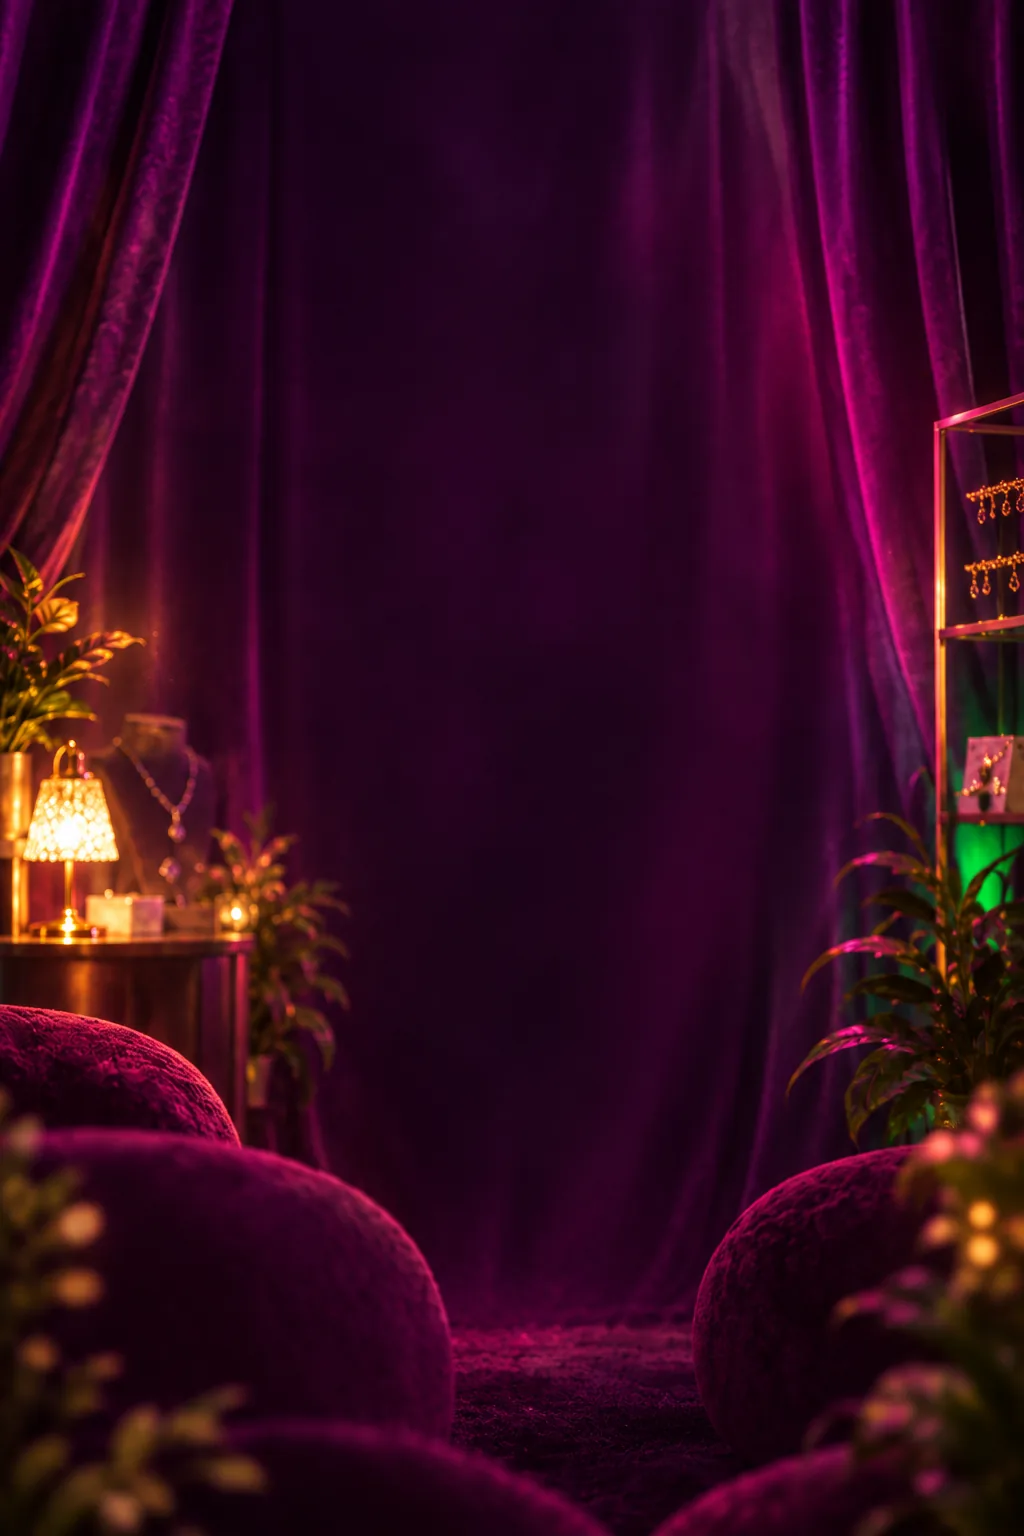
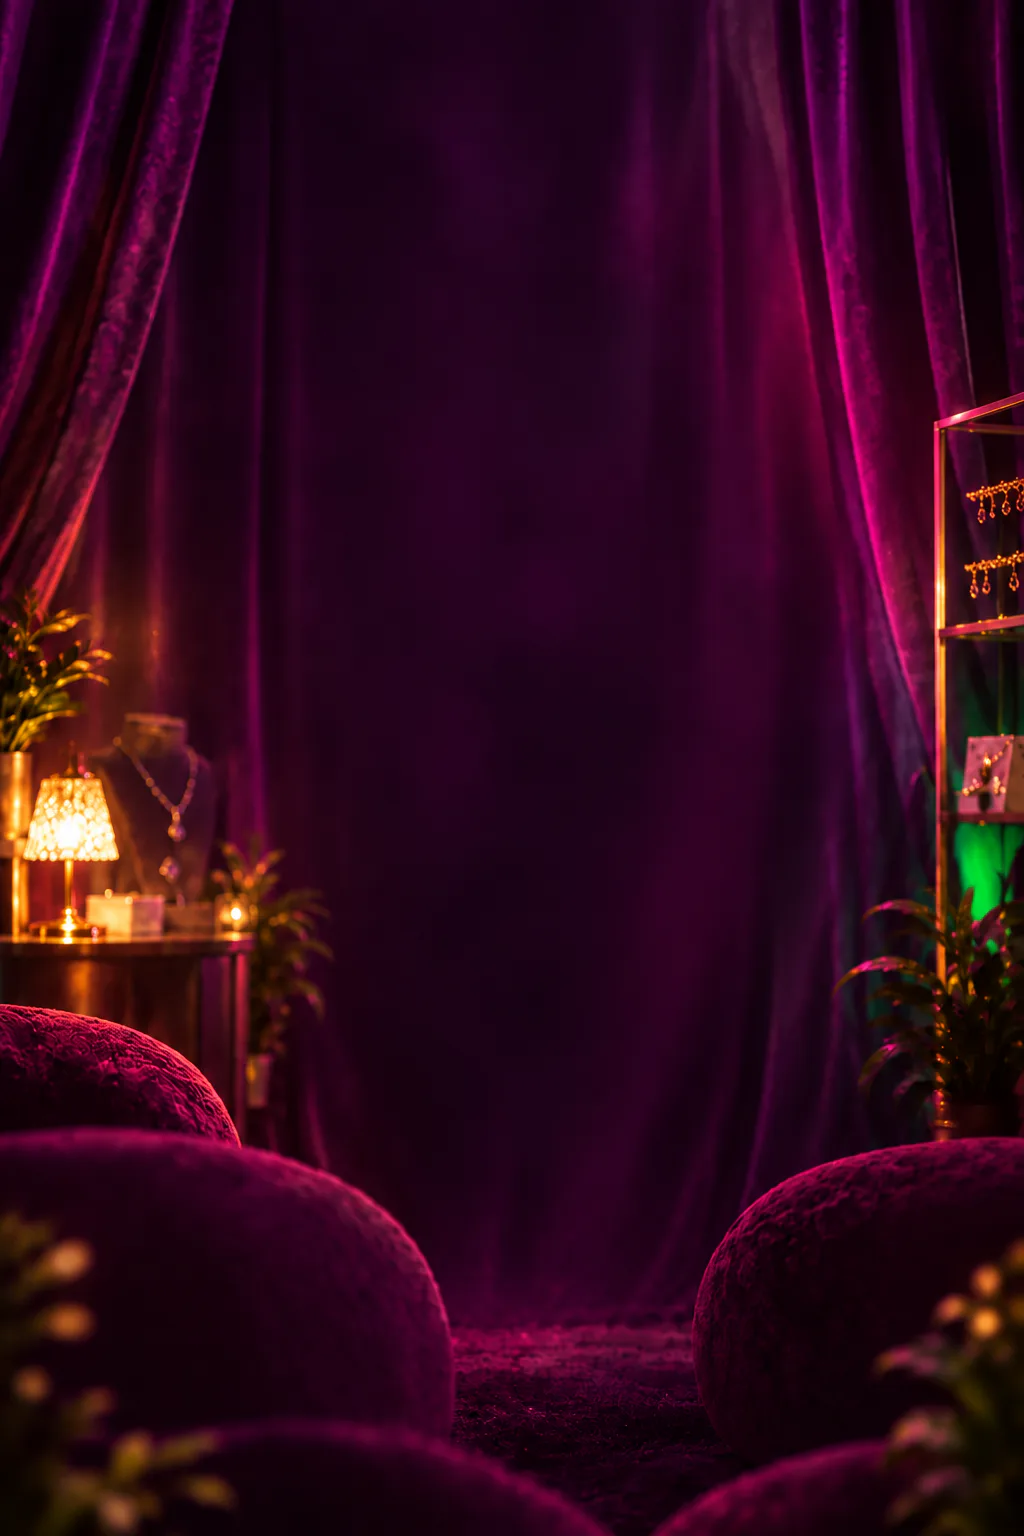
Refine Neon Butterfly shape and motion
Reduce hero foliage, rebuild the reference-inspired butterfly outline, remove the white detail mark, and animate all three main wing pairs independently.

diff --git a/public/amethyst/neon-butterfly.css b/public/amethyst/neon-butterfly.css
@@ -206,20 +206,22 @@ body.bg-neon-butterfly .hp-footer {
 }
 body.bg-neon-butterfly .hp-footer a:hover { color: #ff75df; }
 
-.nb-decoration { position: absolute; inset: 0; z-index: 2; pointer-events: none; overflow: hidden; }
-.nb-scene { position: absolute; inset: 0; pointer-events: none; user-select: none; overflow: hidden; }
+.nb-decoration { position: static; pointer-events: none; }
+.nb-scene { position: absolute; inset: 0; z-index: 2; pointer-events: none; user-select: none; overflow: hidden; }
 .nb-ambient { position: absolute; inset: -18%; background: radial-gradient(circle at 70% 35%, rgba(255, 42, 205, 0.17), transparent 31%), radial-gradient(circle at 24% 62%, rgba(255, 194, 74, 0.1), transparent 23%), radial-gradient(circle at 93% 70%, rgba(97, 242, 155, 0.07), transparent 20%); animation: nb-ambient-breathe 22s ease-in-out infinite; }
 .nb-lamp-shimmer { position: absolute; left: -7%; bottom: -8%; width: 34%; aspect-ratio: 1; border-radius: 50%; background: radial-gradient(circle, rgba(255, 214, 124, 0.28), rgba(255, 153, 46, 0.08) 37%, transparent 69%); mix-blend-mode: screen; opacity: .42; animation: nb-lamp-shimmer 19s ease-in-out infinite; }
-.nb-butterfly { position: absolute; display: block; color: #ff2acd; filter: drop-shadow(0 0 7px currentColor) drop-shadow(0 0 18px currentColor); transform-origin: 50% 50%; will-change: transform, opacity, filter; }
+.nb-butterfly { --nb-flap-duration: 21s; --nb-flap-delay: 0s; position: absolute; display: block; color: #ff2acd; filter: drop-shadow(0 0 7px currentColor) drop-shadow(0 0 18px currentColor); transform-origin: 50% 50%; will-change: transform, opacity, filter; }
 .nb-butterfly svg { display: block; width: 100%; height: auto; overflow: visible; }
-.nb-butterfly-outline { fill: rgba(255,255,255,.025); stroke: currentColor; stroke-width: 5.2; stroke-linejoin: round; vector-effect: non-scaling-stroke; }
-.nb-butterfly-detail { fill: none; stroke: rgba(255,255,255,.82); stroke-width: 1.35; stroke-linecap: round; vector-effect: non-scaling-stroke; }
+.nb-butterfly-outline { fill: none; stroke: currentColor; stroke-width: 5.2; stroke-linecap: round; stroke-linejoin: round; vector-effect: non-scaling-stroke; }
+.nb-wing { transform-box: view-box; transform-origin: 60px 45px; will-change: transform; }
+.nb-wing--left { animation: nb-wing-flap-left var(--nb-flap-duration) var(--nb-flap-delay) ease-in-out infinite; }
+.nb-wing--right { animation: nb-wing-flap-right var(--nb-flap-duration) calc(var(--nb-flap-delay) + .07s) ease-in-out infinite; }
 .nb-butterfly--pink { color: #ff35d1; }
 .nb-butterfly--gold { color: #ffc24a; }
 .nb-butterfly--violet { color: #b56bff; }
-.nb-butterfly--upper-right { width: clamp(138px, 16vw, 225px); right: clamp(28px, 7vw, 120px); top: clamp(36px, 8%, 82px); animation: nb-sign-flutter 21s ease-in-out infinite, nb-neon-breathe 8s ease-in-out infinite; }
-.nb-butterfly--left { width: clamp(108px, 13vw, 182px); left: clamp(20px, 6vw, 104px); top: 32%; animation: nb-sign-flutter 27s -9s ease-in-out infinite, nb-neon-breathe 11s -3s ease-in-out infinite; }
-.nb-butterfly--lower-right { width: clamp(92px, 11vw, 160px); right: clamp(18px, 9vw, 145px); bottom: 13%; animation: nb-sign-flutter 24s -15s ease-in-out infinite, nb-neon-breathe 9s -5s ease-in-out infinite; }
+.nb-butterfly--upper-right { --nb-flap-duration: 19s; --nb-flap-delay: -4s; width: clamp(138px, 16vw, 225px); right: clamp(28px, 7vw, 120px); top: clamp(36px, 8%, 82px); animation: nb-sign-drift 21s ease-in-out infinite, nb-neon-breathe 8s ease-in-out infinite; }
+.nb-butterfly--left { --nb-flap-duration: 23s; --nb-flap-delay: -12s; width: clamp(108px, 13vw, 182px); left: clamp(20px, 6vw, 104px); top: 32%; animation: nb-sign-drift 27s -9s ease-in-out infinite, nb-neon-breathe 11s -3s ease-in-out infinite; }
+.nb-butterfly--lower-right { --nb-flap-duration: 27s; --nb-flap-delay: -19s; width: clamp(92px, 11vw, 160px); right: clamp(18px, 9vw, 145px); bottom: 13%; animation: nb-sign-drift 24s -15s ease-in-out infinite, nb-neon-breathe 9s -5s ease-in-out infinite; }
 .nb-butterfly--flyer { width: clamp(40px, 4.6vw, 66px); left: 8%; bottom: 9%; opacity: 0; animation: nb-butterfly-flight 29s -6s cubic-bezier(.42,0,.28,1) infinite; }
 .nb-decoration[data-choreography="2"] .nb-butterfly--flyer { animation-delay: -15s; animation-duration: 33s; }
 .nb-decoration[data-choreography="3"] .nb-butterfly--flyer { animation-delay: -24s; animation-duration: 36s; }
@@ -233,7 +235,9 @@ body.bg-neon-butterfly .hp-footer a:hover { color: #ff75df; }
 @keyframes nb-ambient-breathe { 0%,100% { opacity: .68; transform: scale(1); } 48% { opacity: .95; transform: scale(1.035); } 54% { opacity: .9; transform: scale(1.025); } }
 @keyframes nb-lamp-shimmer { 0%,57%,100% { opacity: .34; transform: scale(.96); } 63% { opacity: .7; transform: scale(1.035); } 70% { opacity: .42; transform: scale(1); } }
 @keyframes nb-neon-breathe { 0%,100% { opacity: .86; filter: drop-shadow(0 0 6px currentColor) drop-shadow(0 0 16px currentColor); } 50% { opacity: 1; filter: drop-shadow(0 0 9px currentColor) drop-shadow(0 0 25px currentColor); } }
-@keyframes nb-sign-flutter { 0%,38%,46%,72%,80%,100% { transform: rotate(0deg) scaleX(1) translateY(0); } 41% { transform: rotate(-1deg) scaleX(.91) translateY(-2px); } 43% { transform: rotate(1deg) scaleX(1.025) translateY(0); } 75% { transform: rotate(.8deg) scaleX(.94) translateY(-1px); } 77% { transform: rotate(-.5deg) scaleX(1.015) translateY(0); } }
+@keyframes nb-sign-drift { 0%,38%,46%,72%,80%,100% { transform: rotate(0deg) translateY(0); } 42% { transform: rotate(-1deg) translateY(-2px); } 76% { transform: rotate(.8deg) translateY(-1px); } }
+@keyframes nb-wing-flap-left { 0%,34%,40%,67%,71%,100% { transform: scaleX(1); } 35.4%,38.2%,68.2% { transform: scaleX(.48); } 36.7%,39.3%,69.5% { transform: scaleX(.9); } }
+@keyframes nb-wing-flap-right { 0%,34%,40%,67%,71%,100% { transform: scaleX(1); } 35.4%,38.2%,68.2% { transform: scaleX(.48); } 36.7%,39.3%,69.5% { transform: scaleX(.9); } }
 @keyframes nb-butterfly-flight { 0%,58% { opacity: 0; transform: translate(0,0) rotate(-18deg) scale(.78); } 61% { opacity: .76; } 69% { opacity: .9; transform: translate(27vw,-19vh) rotate(6deg) scale(1); } 76% { opacity: .72; transform: translate(53vw,-29vh) rotate(-8deg) scale(.92); } 81%,100% { opacity: 0; transform: translate(76vw,-43vh) rotate(12deg) scale(.72); } }
 @keyframes nb-sparkle-twinkle { 0%,38%,52%,100% { opacity: .15; transform: scale(.7); } 44% { opacity: .9; transform: scale(1.55); } 48% { opacity: .38; transform: scale(.9); } }
 

diff --git a/public/amethyst/neon-butterfly.js b/public/amethyst/neon-butterfly.js
@@ -10,8 +10,8 @@
     '.bwb-hero',
     '.bk-home-hero',
   ].join(',');
-  var BUTTERFLY_PATH = 'M60 43C51 20 29 7 17 14C5 22 12 42 36 48C20 55 19 72 30 78C41 84 53 66 60 53C67 66 79 84 90 78C101 72 100 55 84 48C108 42 115 22 103 14C91 7 69 20 60 43Z';
-  var INNER_PATH = 'M60 43C53 39 47 38 41 39M60 43C67 39 73 38 79 39M60 44V57';
+  var LEFT_WING_PATH = 'M60 44C53 37 50 29 44 20C39 10 31 5 24 8C16 11 15 20 19 28C22 34 27 39 33 43C27 43 22 46 20 51C16 59 20 68 27 71C35 74 42 67 47 61C52 55 56 49 60 47';
+  var RIGHT_WING_PATH = 'M60 44C67 37 70 29 76 20C81 10 89 5 96 8C104 11 105 20 101 28C98 34 93 39 87 43C93 43 98 46 100 51C104 59 100 68 93 71C85 74 78 67 73 61C68 55 64 49 60 47';
   var butterflies = [
     { tone: 'pink', size: 'large', place: 'upper-right' },
     { tone: 'gold', size: 'medium', place: 'left' },
@@ -29,8 +29,8 @@
       ' nb-butterfly--' + item.size + ' nb-butterfly--' + item.place +
       '" data-nb-butterfly="' + (index + 1) + '">' +
       '<svg viewBox="0 0 120 90" focusable="false" aria-hidden="true">' +
-      '<path class="nb-butterfly-outline" d="' + BUTTERFLY_PATH + '" />' +
-      '<path class="nb-butterfly-detail" d="' + INNER_PATH + '" />' +
+      '<g class="nb-wing nb-wing--left"><path class="nb-butterfly-outline" d="' + LEFT_WING_PATH + '" /></g>' +
+      '<g class="nb-wing nb-wing--right"><path class="nb-butterfly-outline" d="' + RIGHT_WING_PATH + '" /></g>' +
       '</svg></span>';
   }
 

diff --git a/tests/neon-butterfly-skin.test.ts b/tests/neon-butterfly-skin.test.ts
@@ -108,6 +108,16 @@ describe('Neon Butterfly Amethyst skin', () => {
     expect(motion).not.toContain('requestAnimationFrame')
     expect(motion).not.toContain('setInterval')
 
+    expect(motion).toContain('nb-wing--left')
+    expect(motion).toContain('nb-wing--right')
+    expect(motion).not.toContain('INNER_PATH')
+    expect(motion).not.toContain('nb-butterfly-detail')
+    expect(css).toContain('@keyframes nb-wing-flap-left')
+    expect(css).toContain('@keyframes nb-wing-flap-right')
+    expect(css).toContain('--nb-flap-duration: 19s')
+    expect(css).toContain('--nb-flap-duration: 23s')
+    expect(css).toContain('--nb-flap-duration: 27s')
+
     for (const asset of ['velvet-room-desktop.webp', 'velvet-room-mobile.webp']) {
       const bytes = readFileSync(resolve(root, 'public', 'amethyst', 'skins', 'neon-butterfly', asset))
       expect(bytes.length).toBeGreaterThan(20_000)

diff --git a/vault/2026-09-13-neon-butterfly-shape-and-foliage-refinement.md b/vault/2026-09-13-neon-butterfly-shape-and-foliage-refinement.md
@@ -1,0 +1,46 @@
+# Neon Butterfly shape and foliage refinement — September 13, 2026
+
+## Scope
+
+This refinement keeps Neon Butterfly (`NB-01`, preset id `neon_butterfly`)
+inside the shared Amethyst layout and changes only its visual layer.
+
+## Changes
+
+- Reduced the amount and prominence of the hero room's edge greenery while
+  preserving the velvet curtains, lamp, jewelry staging, furniture, palette,
+  and centered negative space in both responsive artwork crops.
+- Rebuilt the neon butterflies from separate left- and right-wing paths with
+  taller upper lobes and smaller curled lower lobes based on Kelly's reference.
+- Removed the white interior Y/T detail entirely.
+- Gave each of the three main butterflies a real independent wing-flap cycle
+  with 19-, 23-, and 27-second staggered timing. The restrained glow and drift
+  remain separate from the wing motion.
+- Corrected the motion control's stacking so Pause/Resume is actually clickable.
+
+## Verification
+
+- Focused Neon Butterfly test: 12/12 passed.
+- Related integration run: 320/322 passed. The two failures are pre-existing
+  source-shape assertions in already-dirty, unrelated Dashboard/Homepage work;
+  neither failing file is part of this refinement.
+- Amethyst QA run: 91/92 passed with the same unrelated Homepage source-shape
+  assertion drift.
+- Exact production build: passed, including TypeScript and static generation.
+- Browser QA at 1440x1000 and 390x844 confirmed three main butterflies, six
+  animated wings, zero white detail paths, and successful Pause/Resume.
+- The measured minimum wing scales were approximately 0.49, 0.48, and 0.48,
+  proving all three independent flap cycles executed in the rendered page.
+
+## Asset provenance
+
+The two room edits were created with the built-in image generation workflow in
+precise-object-edit mode from the existing responsive backdrops. The generated
+masters remain in the Codex generated-images directory; the production WebP
+derivatives remain at the existing public asset paths so no skin or route
+contract changed.
+
+## Safety
+
+No extension, Live Lineup, queue, Store, Finder selection, migration, billing,
+authentication, or customer-data behavior was changed.
